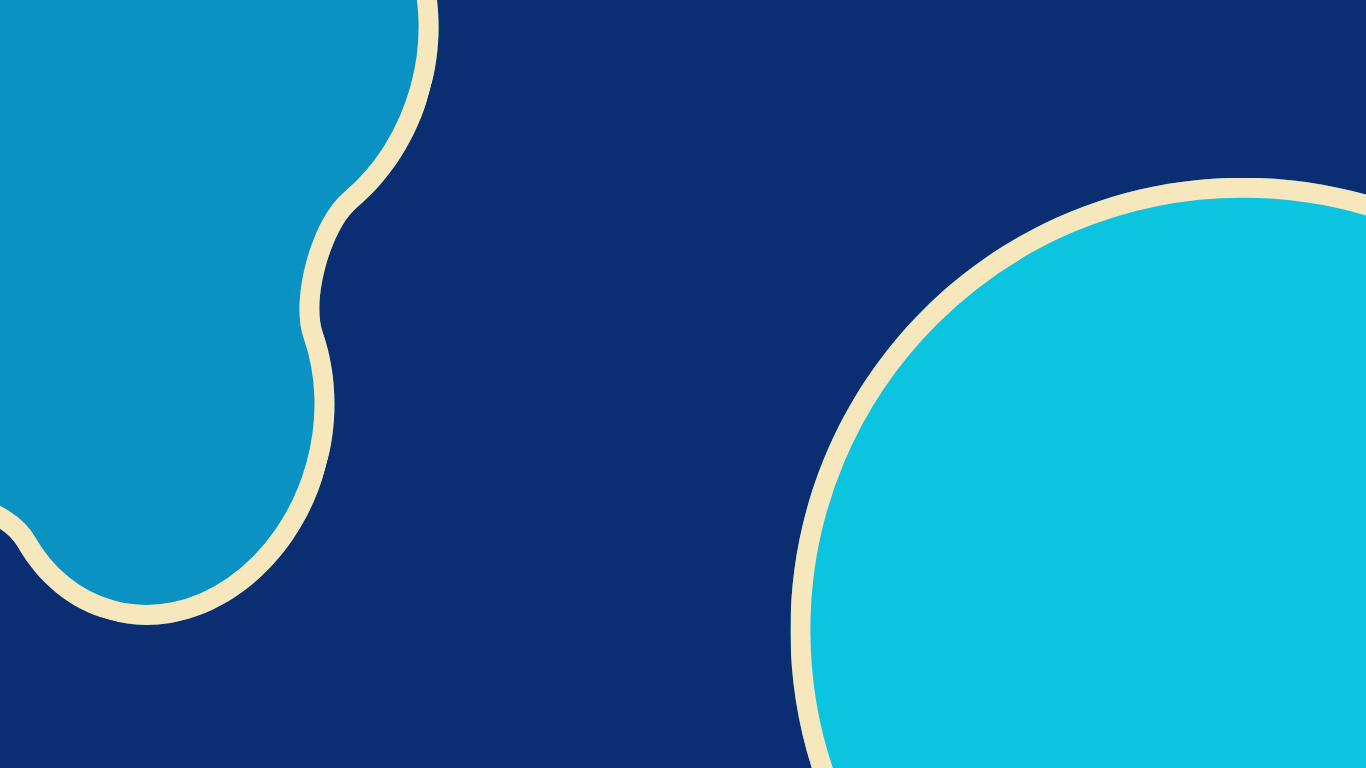
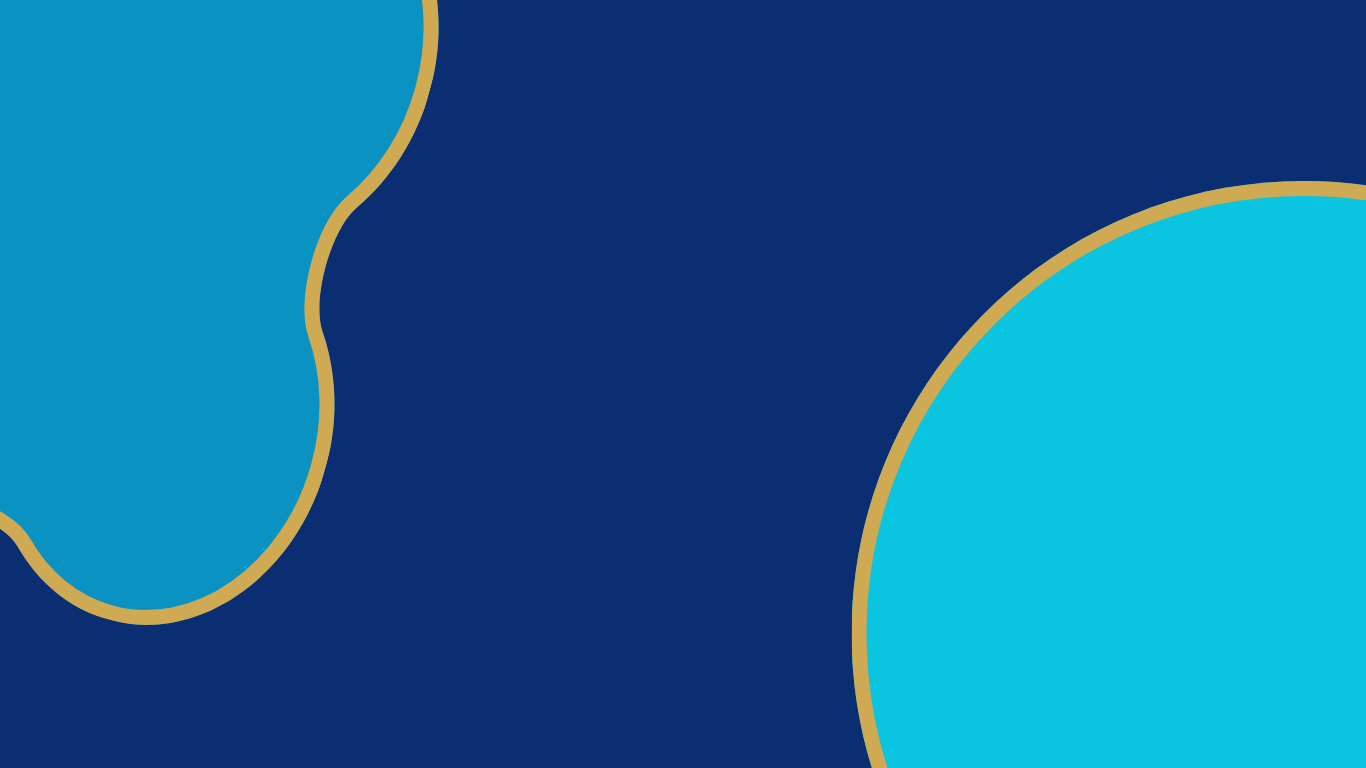
Daylight: new office photo and gold-outlined artwork, header bands reverted
Three swaps from Denis, and the two image ones travel together.

THE ARTWORK'S OUTLINES ARE BRAND GOLD NOW, where the previous file drew them in
a pale cream. Same composition, same two blues, same 1366x768 — only the line
colour moved, and it moved onto #E0A840, the colour the CTAs already use.

Which is why THE HEADER BANDS GO BACK to the cool #F2F6F9. They were cream for
a round because that cream was the artwork's outline colour, so the page's only
warm surface matched its only warm line. The line is gold now, so the cream had
nothing left to match and the argument for it expired with the file. The
contrast table is recomputed for the restored ground; the cyan chip tint is
once again the tightest of the five, and it is still what decided --ft-subtle.

THE OFFICE PHOTO is a wider frame of the same building. 6.0MB of PNG at 2688px
in, 261KB of WebP at 1800px out.

Its aspect changed with it — 1.792 to 1.768 — so the intrinsic `width`/`height`
moved from 1800x1005 to 1800x1018. Those are not decoration: next/image
reserves the box from that ratio before the file arrives, so a stale pair is a
layout shift on load and a silent crop under `object-cover`.

ONE TRAP WORTH RECORDING, because it nearly passed as verified. Replacing an
image in place keeps its URL, and next/image's optimiser caches by URL — so the
first check after the swap reported the photo as 720x402, the OLD aspect, from
`.next/cache/images`. Clearing that cache and re-serving reported 720x407,
[…]

Changed region(s): [[0.5534, 0.2188, 1.0, 1.0], [0.0, 0.0, 0.3382, 0.8125]]

diff --git a/apps/blog/app/globals.css b/apps/blog/app/globals.css
@@ -1866,16 +1866,16 @@
  * ground it can land on — white, the band, the card, the raised chip, and the
  * cyan wash behind the hero badge:
  *
- *              #FFFFFF   #F6E7BC   #F5F8FA   #E8EFF4   #C9F2F8
- *   ink        12.86     10.46     12.06     11.08     10.74
- *   muted       7.35      5.97      6.89      6.33      6.14
- *   subtle      6.01      4.89      5.64      5.18      5.02
- *   accent      5.92      4.81      5.55      5.09      4.94
+ *              #FFFFFF   #F2F6F9   #F5F8FA   #E8EFF4   #C9F2F8
+ *   ink        12.86     11.84     12.06     11.08     10.74
+ *   muted       7.35      6.76      6.89      6.33      6.14
+ *   subtle      6.01      5.53      5.64      5.18      5.02
+ *   accent      5.92      5.44      5.55      5.09      4.94
  *
- * All clear the 4.5:1 body-text floor on all five, and the cream band is now
- * the tightest of them — --ft-accent has 0.31 of headroom there. --ft-subtle
- * is a step darker than it looks like it needs to be because the cyan chip
- * tint decided it: at #5A6B95 it measured 4.42 on that ground and failed.
+ * All clear the 4.5:1 body-text floor on all five, and the cyan chip tint is
+ * the tightest of them. That ground is also what decided --ft-subtle: at
+ * #5A6B95 it measured 4.42 there and failed, which is why the value is a step
+ * darker than it looks like it needs to be.
  * __tests__/contrast.test.ts recomputes every cell and fails if a retune drops
  * one.
  *
@@ -1919,17 +1919,22 @@
 
     --ft-bg: #ffffff;
     /*
-     * THE SECTION HEADER BANDS ARE CREAM, and they are the one warm surface on
-     * a cool page. The value is Denis's, and it is not arbitrary: it is the
-     * pale gold that outlines both shapes in the band artwork, so the page's
-     * only warm colour appears in exactly two places and they match.
-     *
-     * It was a cool blue-grey before. A band still has to step away from the
-     * page to be a band, and on white the only direction is down — cream is
-     * darker than white, so it still reads as a band rather than as the header
+     * The bands are DARKER than the ground here, where in the dark design they
+     * are lighter (#1A1A1A on #141414). Same idea both ways round: a band is a
+     * band because it steps away from the page, and on white the only direction
+     * to step is down — a white band on a white ground is the section header
      * losing its edges.
+     *
+     * Tinted toward the blues rather than neutral, so it sits under #0AC4E0
+     * rather than fighting it: a neutral grey beside a saturated cyan reads as
+     * dirty.
+     *
+     * These were cream (#F6E7BC) for a round, matched to the pale gold that
+     * outlined the shapes in the band artwork. Denis reverted both together —
+     * the artwork's outlines are brand gold now, so the cream had nothing left
+     * to match.
      */
-    --ft-band: #f6e7bc;
+    --ft-band: #f2f6f9;
     --ft-card: #f5f8fa;
     --ft-card-raised: #e8eff4;
     /*

diff --git a/apps/blog/components/marketing/daylight/difference.tsx b/apps/blog/components/marketing/daylight/difference.tsx
@@ -86,6 +86,11 @@ export function DaylightDifference() {
           The photograph, at the same radius the destination cards use so the
           page has one corner language.
 
+          `width`/`height` are the FILE's real pixels, not a guess: next/image
+          reserves the box from that ratio before the image arrives, so a stale
+          pair is a layout shift on load and a crop under `object-cover`. They
+          moved with the photo when it was replaced.
+
           `sizes` matters here: without it next/image assumes the image is the
           full viewport width and serves a file roughly twice the size it needs.
           Half the viewport above the breakpoint, all of it below.
@@ -94,7 +99,7 @@ export function DaylightDifference() {
           src={DIFFERENCE.image.src}
           alt={DIFFERENCE.image.alt}
           width={1800}
-          height={1005}
+          height={1018}
           sizes="(min-width: 1024px) 50vw, 100vw"
           className="w-full rounded-[20px] object-cover shadow-[0_18px_40px_-20px_rgba(11,45,114,0.35)]"
         />
